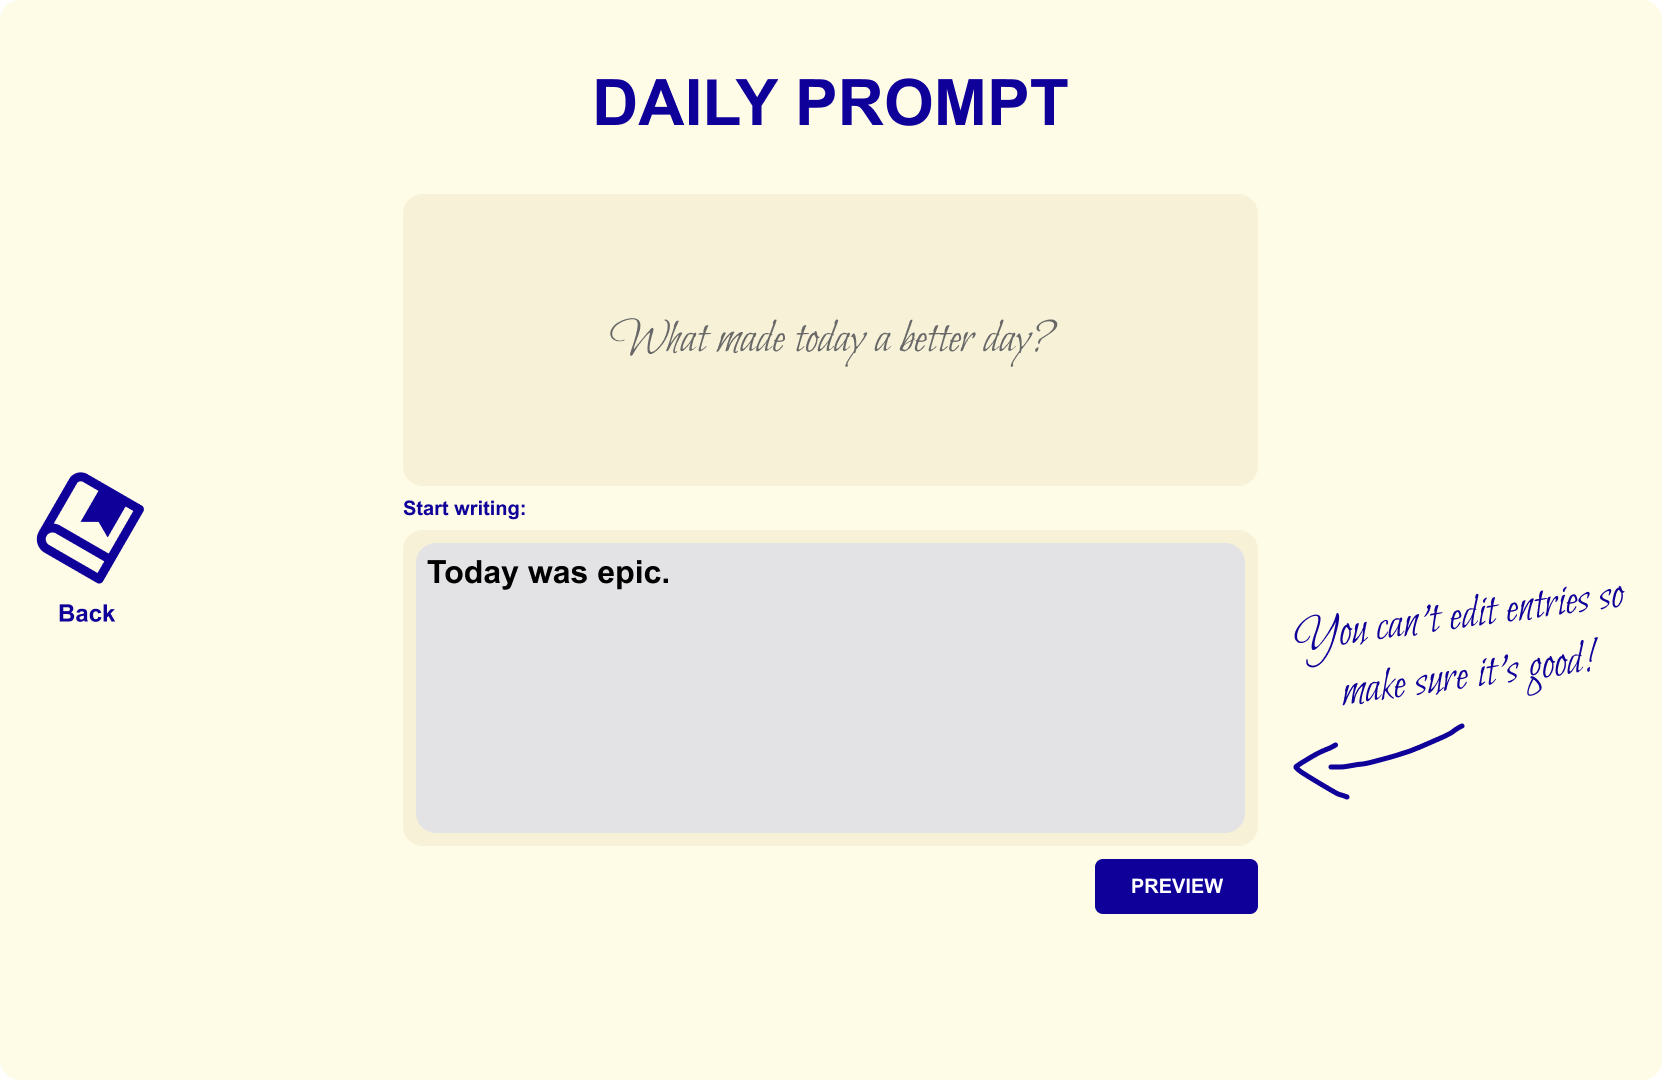
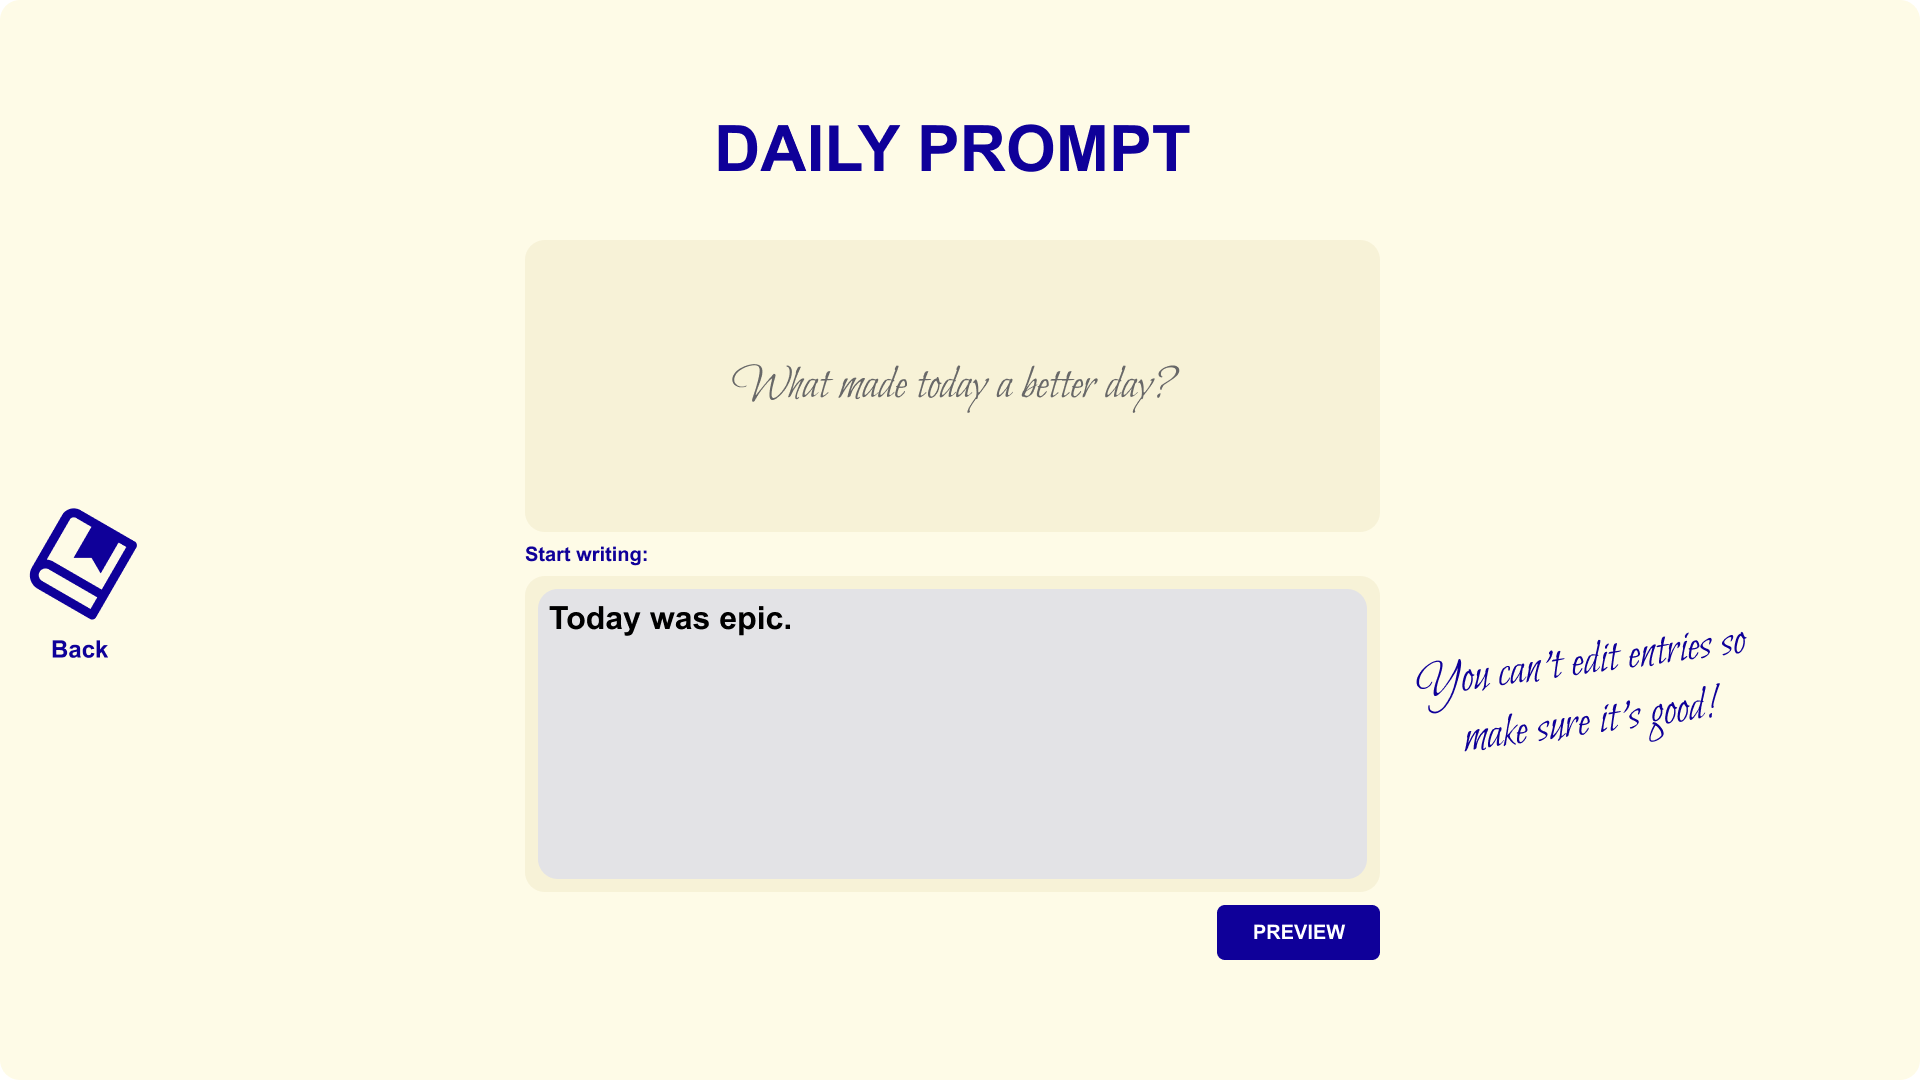
pictures added for ddr

diff --git a/src/project-details-01.html b/src/project-details-01.html
@@ -37,10 +37,10 @@
             </section>
 
             <section class="project-pics">
-                <img src="ddr_ss_1.png" alt="Dear Diary App screenshot showing the main page, with login, signup and about buttons ">
-                <img src="ddr_ss_2.png" alt="Dear Diary App screenshot showing login screen, with name password and password confirmation fields and a signup button.">
-                <img src="ddr_ss_3.png" alt="Dear Diary App screenshot showing the daily promt page, with a text field for writing and a submit button with the daily quote/question above these.">
-                <img src="ddr_ss_4.png" alt="Dear Diary App Learned to wire frame and visually brainstorm an application.
+                <img src="images/ddr_ss_1.png" alt="Dear Diary App screenshot showing the main page, with login, signup and about buttons ">
+                <img src="images/ddr_ss_2.png" alt="Dear Diary App screenshot showing login screen, with name password and password confirmation fields and a signup button.">
+                <img src="images/ddr_ss_3.png" alt="Dear Diary App screenshot showing the daily promt page, with a text field for writing and a submit button with the daily quote/question above these.">
+                <img src="images/ddr_ss_4.png" alt="Dear Diary App Learned to wire frame and visually brainstorm an application.
                                             Learned to iterate an app through weekly sprints.
                                             Learned to plan the architecture of an application and explain these in a coherent readme and design doc.
                                             Learned to create automatic tests for an application.
